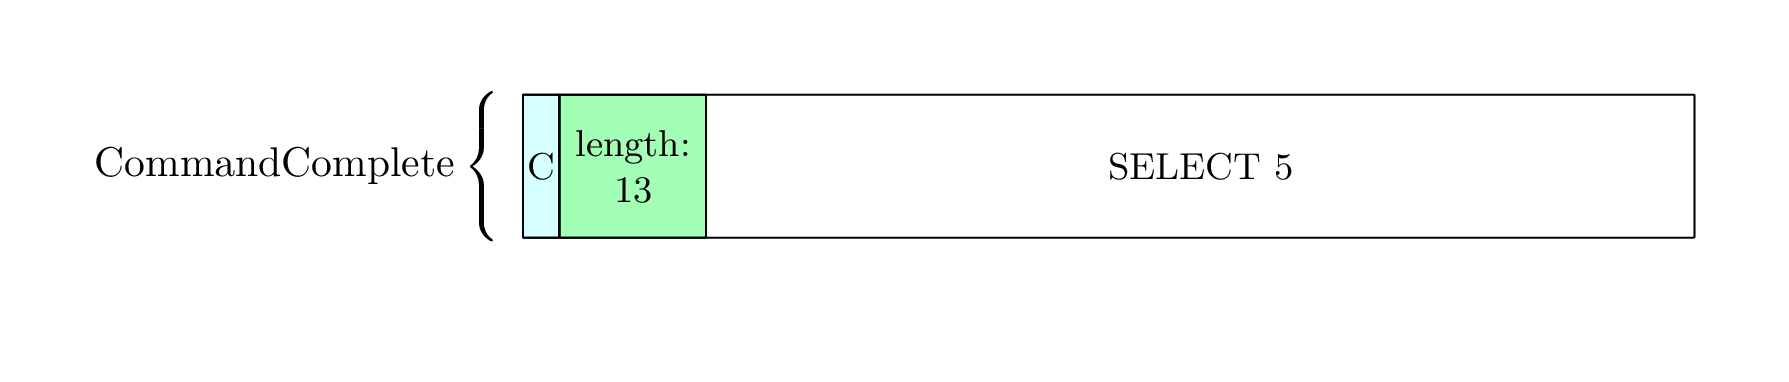
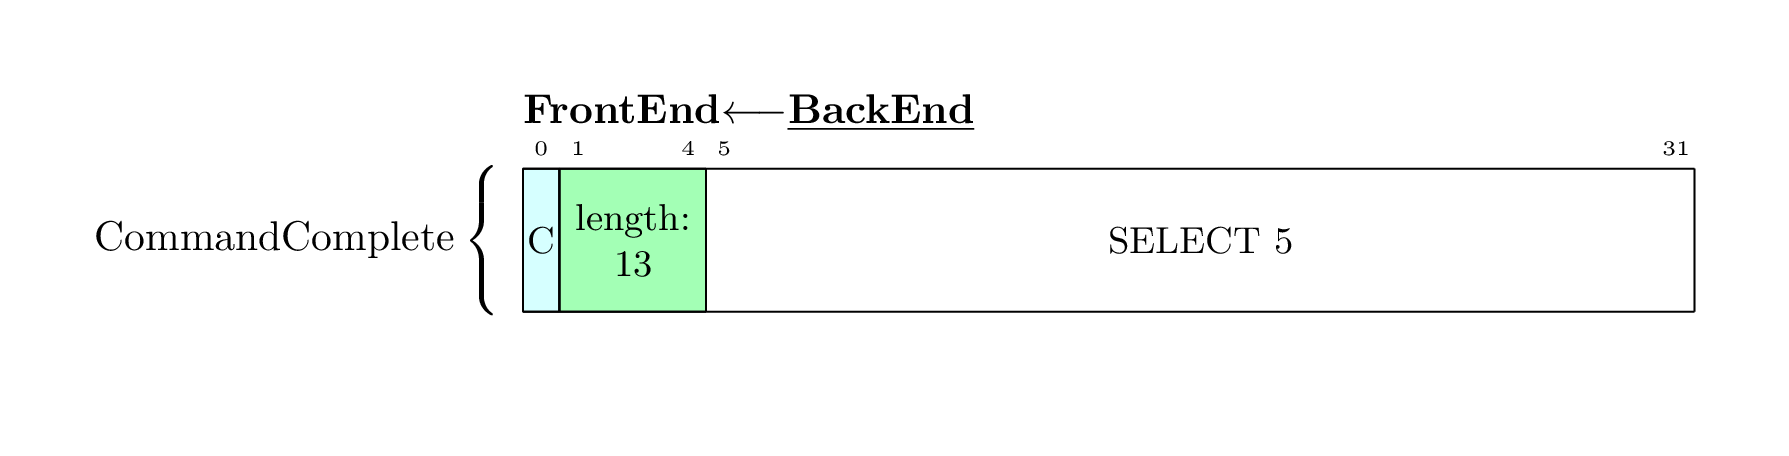
ec-3230 fix typos

diff --git a/edb_docs/tools/LatexPcapGenerator/Services/PcapToLatexService.cs b/edb_docs/tools/LatexPcapGenerator/Services/PcapToLatexService.cs
@@ -94,7 +94,7 @@ public static class PcapToLatexService
                 bool success = ProcessPostGresMessage(pgMessage, state, fileLatexBuilder, (builder, stateObj) =>
                 {
                     state.StatsMesssagesProcessed++;
-
+                    
                     // Last packet Footer
                     fileLatexBuilder.AppendLine(new PacketFooter(newChapter: false, state).TransformText());
 
@@ -104,11 +104,13 @@ public static class PcapToLatexService
                     // Header INSERTION AT BEGINNING
                     fileLatexBuilder.Insert(0, ProcessHeader(null, state) + Environment.NewLine);
 
-
                     var finalLatex = fileLatexBuilder.ToString();
                     var fileName = Path.Combine(latexOutputDirectory, $"packet{packetIndex:0000}_message{state.StatsMesssagesProcessed:0000}.tex");
                     File.WriteAllText(fileName, finalLatex);
                     fileLatexBuilder.Clear();
+
+                    // Packet Header
+                    fileLatexBuilder.AppendLine(new PacketHeader(packet.Messages, packet.IsFrontEnd, packetIndex, state).TransformText());
                 });
 
                 if (!success)

diff --git a/edb_docs/tools/LatexPcapGenerator/Templates/SkippedWords.cs b/edb_docs/tools/LatexPcapGenerator/Templates/SkippedWords.cs
@@ -49,8 +49,8 @@ namespace pcap2latex.Templates
             
             #line default
             #line hidden
-            this.Write(" messages skipped for brievity $\\cdots$} \\\\\r\n        \\skippedwords \\\\\r\n        \\w" +
-                    "ordbox[lrb]{1}{}\r\n    \\end{leftwordgroup}\r\n");
+            this.Write(" messages skipped for brevity $\\cdots$} \\\\\r\n        \\skippedwords \\\\\r\n        \\wo" +
+                    "rdbox[lrb]{1}{}\r\n    \\end{leftwordgroup}\r\n");
             return this.GenerationEnvironment.ToString();
         }
         